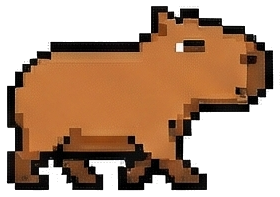
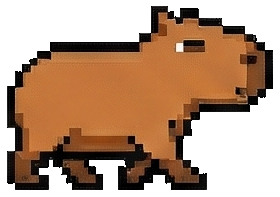
Improve art: clean sprites, new background and ground tile
- Remove white/gray pixel noise from all character sprites (Marie and
  capybara) using exterior flood-fill + black outline gap fill
- Replace programmatic canvas background with pixel art PNG of Águas de
  Lindóia landmarks (Praça, Balneário, Hotel Glória, Igreja N.S. Graças)
- Replace placeholder ground tile with proper grass+dirt tile extracted
  from sprites_floor.png spritesheet
- Remove hillG Bézier hill and chapel overlay from GameScene (now part
  of the background image)
- Update README with game description, controls table and project layout

diff --git a/scenes/GameScene.js b/scenes/GameScene.js
@@ -24,15 +24,8 @@ class GameScene extends Phaser.Scene {
         const H = this.scale.height;
 
         // ── Fundo (parallax) ────────────────────────────────────────────────
-        this.bg = this.add.tileSprite(0, 0, W, H, 'bg')
+        this.bg = this.add.tileSprite(0, 0, W, H, 'background')
             .setOrigin(0, 0).setScrollFactor(0).setDepth(0);
-
-        // ── Chapel no fundo (parallax lento) ────────────────────────────────
-        this.chapel = this.add.image(W * 0.72, H - 68, 'chapel')
-            .setOrigin(0.5, 1)
-            .setScale(0.18)
-            .setScrollFactor(0.06)
-            .setDepth(1);
 
         // ── Chão ─────────────────────────────────────────────────────────────
         this.ground = this.physics.add.staticGroup();

diff --git a/scenes/BootScene.js b/scenes/BootScene.js
@@ -24,9 +24,11 @@ class BootScene extends Phaser.Scene {
         this.load.image('bottle',  'assets/bottle.png');
         this.load.image('block_q', 'assets/block_q.png');
 
-        // Gera o coração e o fundo via canvas (síncrono)
+        // Fundo pré-gerado como PNG
+        this.load.image('background', 'assets/background.png');
+
+        // Gera o coração via canvas (síncrono)
         this.makeHeart();
-        this.makeBackground();
     }
 
     create() {

diff --git a/README.md b/README.md
@@ -1,15 +1,19 @@
-# marie-adventure
+# A Aventura de Marie
 
-**A Aventura de Marie** — jogo 2D em **Phaser 3** (HTML/JS) feito para rodar direto no navegador.
+Jogo 2D de plataforma em **Phaser 3** (HTML/JS puro), rodando direto no navegador — sem instalação.
 
-> Repositório: `marie-adventure` (slug). Título do jogo: **A Aventura de Marie**.
+Criado para celebrar os **100 anos da visita de Marie Curie a Águas de Lindóia** (1926–2026). A cientista corre pelas ruas da cidade termal desviando das capivaras que cruzam seu caminho.
 
-## Controles
+## Como jogar
 
-- **Teclado:**
-  - Andar: **← / →** (ou **A / D**)
-  - Pular: **↑** (ou **W** / **Espaço**)
-- **Celular:** botões na tela (◄ ► ▲)
+| Ação | Teclado | Mobile |
+|------|---------|--------|
+| Andar | ← / → ou A / D | ◄ ► |
+| Pular | ↑ ou W ou Espaço | ▲ |
+
+- Pise em cima de uma capivara para eliminá-la (+100 pontos).
+- Encostar lateralmente na capivara custa uma vida.
+- O jogo termina ao perder todas as 5 vidas.
 
 ## Rodar localmente
 
@@ -19,20 +23,32 @@ Na raiz do projeto:
 python3 -m http.server 8000
 ```
 
-Depois abra:
+Abra no navegador:
 
-```text
+```
 http://localhost:8000
 ```
 
-### Dica (cache)
+> **Dica:** se o navegador não refletir uma alteração nos arquivos `.js`, faça *hard refresh*:
+> `Cmd+Shift+R` (macOS) / `Ctrl+F5` (Windows/Linux)
 
-Se o navegador não refletir alguma alteração (principalmente em arquivos `.js`), faça um *hard refresh*:
+## Estrutura
 
-- Chrome/Edge: `Cmd+Shift+R` (macOS) / `Ctrl+F5` (Windows/Linux)
+```
+marie-adventure/
+├── index.html          # Ponto de entrada
+├── game.js             # Configuração do Phaser
+├── scenes/
+│   ├── BootScene.js    # Carregamento de assets e animações
+│   ├── GameScene.js    # Loop principal do jogo
+│   ├── HUDScene.js     # Pontos, vidas e tempo
+│   └── GameOverScene.js
+├── assets/             # Sprites e cenário (PNG)
+└── docs/               # Referências visuais e spritesheets originais
+```
 
 ## Créditos
 
-- Engine: [Phaser 3](https://phaser.io/)
-- Arte/sprites: pasta `assets/` (ver também `docs/`)
-- Desenvolvido por: **Andre Suman** ([@andresuman](https://github.com/andresuman))
+- Engine: [Phaser 3](https://phaser.io/) v3.60
+- Cenário: inspirado em Águas de Lindóia — Praça, Balneário Municipal, Hotel Glória, Igreja N.S. das Graças
+- Desenvolvido por **Andre Suman** ([@andresuman](https://github.com/andresuman))
